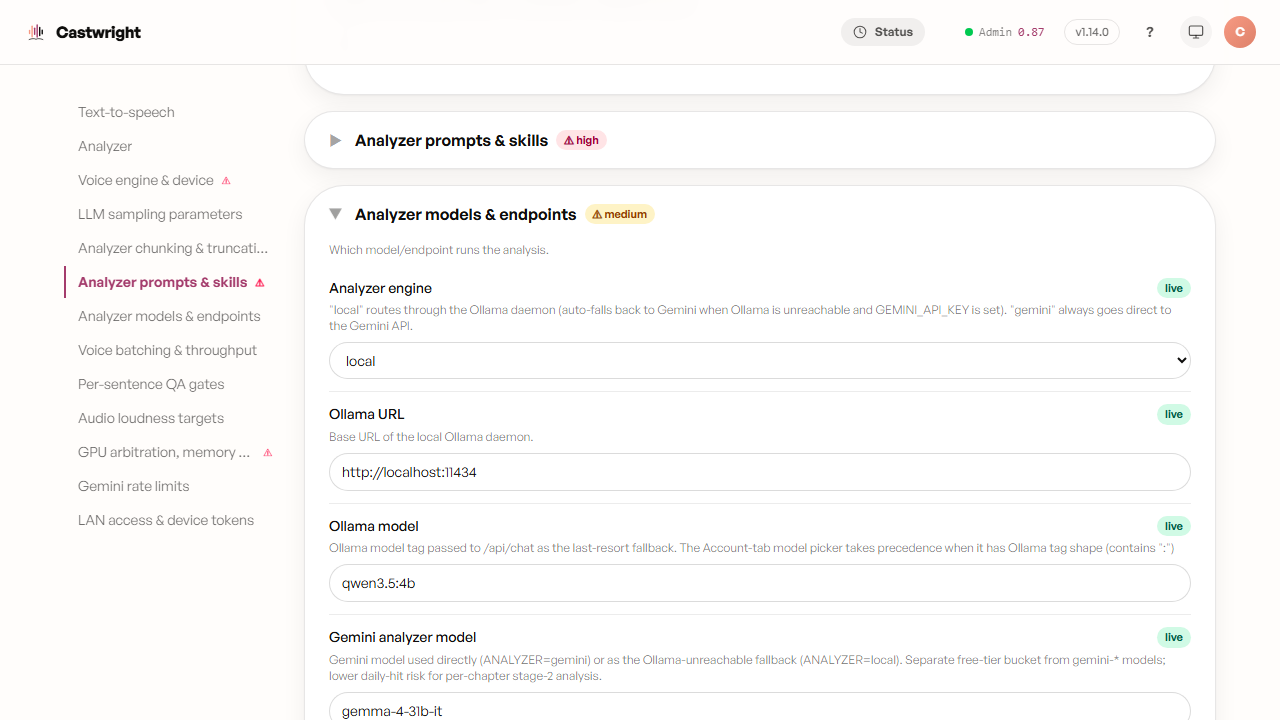
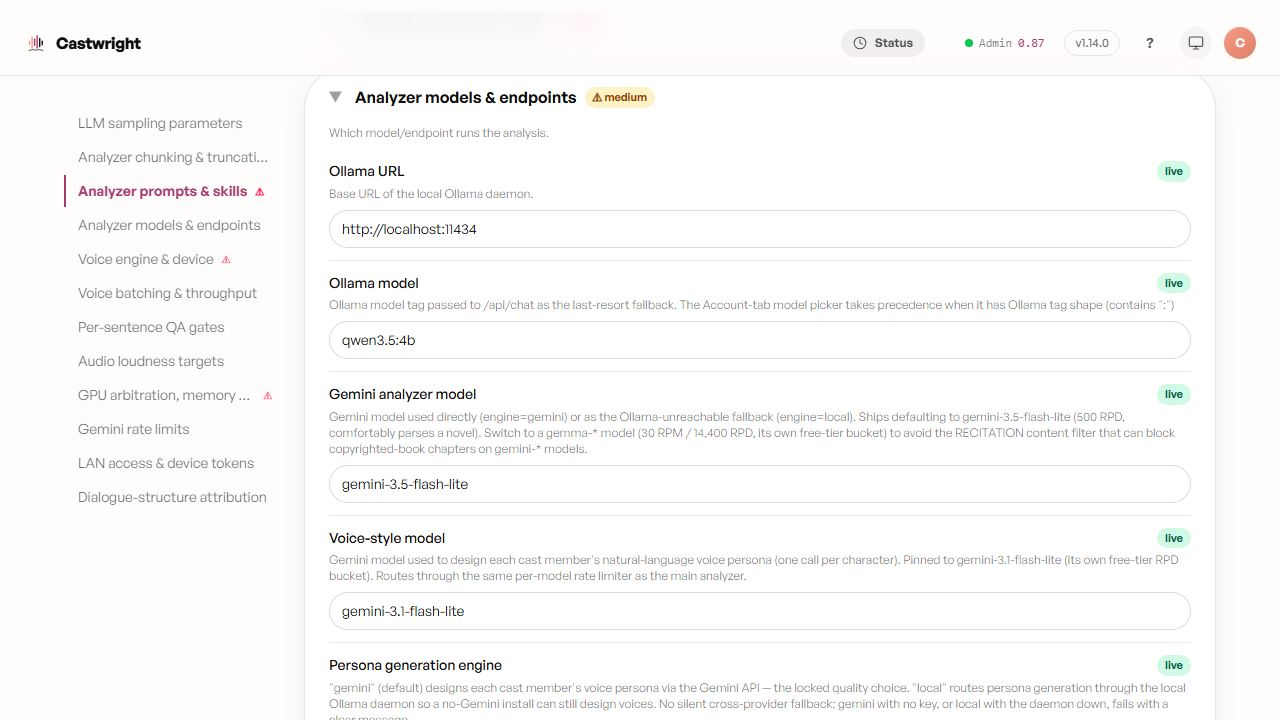
fix(server,frontend): stop pointing users at the retired ANALYZER setting
Review pass 1 on #3201 found live text that still named the removed
control or the ignored ANALYZER env var:

- Ollama unreachable / Gemini recitation messages and their failure
  remediations now point at Admin → Model Manager, with a test that no
  remediation mentions ANALYZER=.
- The voice-design help topic names its real control, Persona generation
  engine in Advanced settings (default Gemini), in-app and in the wiki.
- Model Manager, Advanced Settings, Troubleshooting and Installing wiki
  pages, INSTALL.md, plan 221 and the phase-model help text drop the
  ANALYZER wording; the Advanced Settings screenshots are recaptured.
- The Ollama device row waits for account settings to load, so a failed
  settings fetch no longer shows it to a Gemini user.
- config.test.ts's no-device-knob case uses a non-device knob, and the
  release notes date the env fallback's removal correctly.

Refs #3200

Claude-Session: https://claude.ai/code/session_013DFfsAoY1LtxjDgnGPSZkc

diff --git a/server/src/config/registry.ts b/server/src/config/registry.ts
@@ -1195,7 +1195,7 @@ export const KNOBS: ConfigKnob[] = [
     env: 'ANALYZER_PHASE0_MODEL',
     group: 'analyzer-models',
     label: 'Phase-0 model override',
-    help: 'When set, drives Phase 0 (cast detection) with this specific model while Phase 1 uses ANALYZER_PHASE1_MODEL. Leave empty to use the legacy single-model ANALYZER path for both phases. The two analyzers hit independent rate-limit buckets, so quota is effectively doubled.',
+    help: 'When set, drives Phase 0 (cast detection) with this specific model while Phase 1 uses ANALYZER_PHASE1_MODEL. Leave empty to use the selected analyzer engine (chosen in Admin → Model Manager) for both phases. The two analyzers hit independent rate-limit buckets, so quota is effectively doubled.',
     type: 'string',
     default: '', // ← ANALYZER_PHASE0_MODEL unset by default in server/.env.example (line 60)
     apply: 'live', risk: 'medium',
@@ -1205,7 +1205,7 @@ export const KNOBS: ConfigKnob[] = [
     env: 'ANALYZER_PHASE1_MODEL',
     group: 'analyzer-models',
     label: 'Phase-1 model override',
-    help: 'When set, drives Phase 1 (sentence attribution) with this specific model while Phase 0 uses ANALYZER_PHASE0_MODEL. Leave empty to use the legacy single-model ANALYZER path.',
+    help: 'When set, drives Phase 1 (sentence attribution) with this specific model while Phase 0 uses ANALYZER_PHASE0_MODEL. Leave empty to use the selected analyzer engine (chosen in Admin → Model Manager).',
     type: 'string',
     default: '', // ← ANALYZER_PHASE1_MODEL unset by default in server/.env.example (line 61)
     apply: 'live', risk: 'medium',

diff --git a/server/src/routes/failure-remediations.ts b/server/src/routes/failure-remediations.ts
@@ -70,8 +70,8 @@ export const FAILURE_REMEDIATIONS = {
       'The analyzer could not be reached or stopped responding — the local Ollama daemon is down, ' +
       'or the analyzer service returned a server error.',
     remediation:
-      'Check that Ollama is running (ollama serve), or switch the analyzer in server/.env ' +
-      '(ANALYZER=gemini with a GEMINI_API_KEY). Then retry the chapter or resume the run.',
+      'Check that Ollama is running (ollama serve), or switch the analyzer to Gemini in ' +
+      'Admin → Model Manager with a GEMINI_API_KEY. Then retry the chapter or resume the run.',
     helpDetail:
       'When GEMINI_API_KEY is set, an unreachable Ollama silently retries against Gemini, so this ' +
       'error usually means no fallback was configured — or both engines failed.',
@@ -83,8 +83,8 @@ export const FAILURE_REMEDIATIONS = {
       'the classic trigger.',
     remediation:
       'Switch the analyzer to a gemma-* model (set GEMINI_MODEL=gemma-4-31b-it in server/.env — the ' +
-      'gemma family is not subject to the recitation filter) or to the local Ollama analyzer ' +
-      '(ANALYZER=local). Restart, then click Retry.',
+      'gemma family is not subject to the recitation filter) or to Local Ollama in ' +
+      'Admin → Model Manager. Restart, then click Retry.',
     helpDetail:
       'The block is deterministic — retrying the same model on the same text fails identically, so ' +
       'it is not a transient error. gemma-* runs on a separate API bucket without recitation ' +

diff --git a/src/test/a11y.test.tsx b/src/test/a11y.test.tsx
@@ -22,7 +22,7 @@ import { ListenView } from '../views/listen';
 import { StatsView } from '../views/stats';
 import { AdvancedView } from '../views/advanced';
 
-import { accountSlice } from '../store/account-slice';
+import { accountSlice, fetchAccountSettings } from '../store/account-slice';
 import { librarySlice } from '../store/library-slice';
 import { tourSlice } from '../store/tour-slice';
 import { uiSlice } from '../store/ui-slice';
@@ -32,7 +32,7 @@ import { analysisSlice } from '../store/analysis-slice';
 import { chaptersSlice } from '../store/chapters-slice';
 import { configSlice } from '../store/config-slice';
 
-import type { Chapter, Character, Voice, LibraryAuthor } from '../lib/types';
+import type { Chapter, Character, Voice, LibraryAuthor, UserSettings } from '../lib/types';
 import type { EditableBookMeta } from '../store/book-meta-slice';
 import { api } from '../lib/api';
 
@@ -391,6 +391,15 @@ describe('a11y — advanced configuration view', () => {
     const store = configureStore({
       reducer: { config: configSlice.reducer, ui: uiSlice.reducer, account: accountSlice.reducer },
     });
+    // Hydrate account settings so the analyzer device block renders
+    const accountState = store.getState().account;
+    store.dispatch(
+      fetchAccountSettings.fulfilled(
+        { ...accountState, analysisEngine: 'local' } as UserSettings,
+        '',
+        undefined,
+      ),
+    );
     const { container } = render(
       <Provider store={store}>
         <AdvancedView />

diff --git a/src/data/help-topics.ts b/src/data/help-topics.ts
@@ -130,12 +130,11 @@ export const HELP_TOPICS: HelpTopic[] = [
     category: 'voices',
     title: 'Can I design voices without a Gemini API key?',
     body:
-      "Yes — voice design's description-writing step follows the same analyzer engine you've " +
-      'already chosen (Local or Gemini, in Advanced settings). Set the analyzer to Local and ' +
-      "Castwright drafts each character's voice from a model running entirely on your machine, so " +
-      'a fully offline setup, or one with no cloud key, can still design a full cast from scratch. ' +
-      'Gemini stays the default for the richest descriptions; Local is the road for a no-key or ' +
-      'offline setup.',
+      "Yes — voice design's description-writing step has its own engine, Persona generation engine " +
+      'in Advanced settings. Set it to Local and Castwright drafts each character\'s voice from a model ' +
+      'running entirely on your machine, so a fully offline setup, or one with no cloud key, can still ' +
+      'design a full cast from scratch. Gemini is its default for the richest descriptions; Local is ' +
+      'the road for a no-key or offline setup.',
   },
   {
     id: 'vocalizations',

diff --git a/src/views/advanced.test.tsx b/src/views/advanced.test.tsx
@@ -559,6 +559,24 @@ describe('AdvancedView — analyzer read-only row (Plan 2 §2.4, issue #1225)', 
     await screen.findAllByText('Text-to-speech');
     expect(screen.queryByText(/Analyzer \(Ollama\) device/i)).not.toBeInTheDocument();
   });
+
+  it('hides the row when account settings are not yet loaded', async () => {
+    mockGetConfig.mockResolvedValue(CONFIG_WITH_ANALYZER_MODELS_GROUP);
+    mockGetAnalyzerDevice.mockResolvedValue({ device: 'cuda' });
+
+    // Create store and render without dispatching fetchAccountSettings.fulfilled
+    // so account stays hydrated=false
+    const store = makeStore();
+    render(
+      <Provider store={store}>
+        <AdvancedView />
+      </Provider>,
+    );
+
+    // Even though the default engine is local, the row should be hidden until account hydrates
+    await screen.findAllByText('Text-to-speech');
+    expect(screen.queryByText(/Analyzer \(Ollama\) device/i)).not.toBeInTheDocument();
+  });
 });
 
 /* ── Analyzer GPU-split warning (#2367 Task 3) ───────────────────────────── */

diff --git a/server/src/analyzer/ollama.ts b/server/src/analyzer/ollama.ts
@@ -1036,7 +1036,7 @@ export function classifyConnectError(err: unknown, url: string): Error {
   const innerCode = e?.cause?.code ?? e?.code;
   if (innerCode && UNREACHABLE_CODES.has(innerCode)) {
     return new LocalUnreachableError(
-      `Ollama at ${url} is unreachable (${innerCode}). Start the daemon or set ANALYZER=gemini.`,
+      `Ollama at ${url} is unreachable (${innerCode}). Start the daemon or switch to Gemini in Admin → Model Manager.`,
       err,
     );
   }
@@ -1045,7 +1045,7 @@ export function classifyConnectError(err: unknown, url: string): Error {
      in some configs). Treat as unreachable. */
   if (e?.name === 'TypeError' && /fetch failed/i.test(e?.message ?? '')) {
     return new LocalUnreachableError(
-      `Ollama at ${url} is unreachable (fetch failed). Start the daemon or set ANALYZER=gemini.`,
+      `Ollama at ${url} is unreachable (fetch failed). Start the daemon or switch to Gemini in Admin → Model Manager.`,
       err,
     );
   }

diff --git a/server/src/routes/failure-remediations.test.ts b/server/src/routes/failure-remediations.test.ts
@@ -23,3 +23,18 @@ describe('FAILURE_REMEDIATIONS.cloned-voice-broken (#1979)', () => {
     expect(remediation).toMatch(/reassign the character/i);
   });
 });
+
+/* ANALYZER env var was retired as the engine selector on 2026-07-15; engine
+   selection moved to per-account settings in Model Manager. Remediation text
+   must not reference the dead ANALYZER= path. */
+describe('FAILURE_REMEDIATIONS — no ANALYZER= references', () => {
+  it('no remediation text contains ANALYZER= or set ANALYZER', () => {
+    for (const [key, remedy] of Object.entries(FAILURE_REMEDIATIONS)) {
+      const text = `${remedy.userMessage}\n${remedy.remediation}\n${
+        'helpDetail' in remedy && remedy.helpDetail ? remedy.helpDetail : ''
+      }`;
+      expect(text, `${key} remediation`).not.toMatch(/ANALYZER=/);
+      expect(text, `${key} remediation`).not.toMatch(/set ANALYZER/i);
+    }
+  });
+});

diff --git a/server/src/routes/script-review.ts b/server/src/routes/script-review.ts
@@ -953,10 +953,9 @@ async function runScriptReviewJob(
       );
       if (blockedErr) {
         /* Terminal, actionable error. The message already names the model +
-           reason + remediation ("switch GEMINI_MODEL to a gemma-* model or set
-           ANALYZER=local"); `model` drives the status pill, `remediation` the
-           panel copy. Renders generically in the frontend else-branch toast (no
-           Retry — retrying the same model is futile). */
+           reason + remediation (from FAILURE_REMEDIATIONS); `model` drives the
+           status pill, `remediation` the panel copy. Renders generically in the
+           frontend else-branch toast (no Retry — retrying the same model is futile). */
         send({
           kind: 'error',
           code: 'content_blocked',

diff --git a/server/src/analyzer/errors.ts b/server/src/analyzer/errors.ts
@@ -68,8 +68,8 @@ export class GeminiContentBlockedError extends Error {
     const hint =
       reason && reason !== 'FINISH_REASON_UNSPECIFIED'
         ? ' A content filter blocked the text — gemini-* models block copyrighted' +
-          ' source via RECITATION. Switch GEMINI_MODEL to a gemma-* model or set' +
-          ' ANALYZER=local (Ollama).'
+          ' source via RECITATION. Switch GEMINI_MODEL to a gemma-* model or switch' +
+          ' to Local Ollama in Admin → Model Manager.'
         : '';
     super(`Gemini ${model} returned an empty response${named}.${hint}`);
     this.name = 'GeminiContentBlockedError';

diff --git a/src/views/advanced.tsx b/src/views/advanced.tsx
@@ -552,7 +552,7 @@ export function AdvancedView() {
                       />
                     );
                   })}
-                  {group.id === 'analyzer-models' && analyzerEngine === 'local' && (
+                  {group.id === 'analyzer-models' && account.hydrated && analyzerEngine === 'local' && (
                     <div className="py-3 border-b border-ink/8">
                       <div className="flex items-center gap-2 mb-1">
                         <span className="text-sm font-medium text-ink flex-1">

diff --git a/server/src/routes/config.test.ts b/server/src/routes/config.test.ts
@@ -522,7 +522,7 @@ describe('PUT /api/config — device knob UUID translation (Plan 2 §2.1)', () =
   });
 
   it('does not fetch the sidecar device list when the patch has no device knob', async () => {
-    const res = await request(app).put('/api/config').send({ 'tts.coqui.device': 'cpu' });
+    const res = await request(app).put('/api/config').send({ 'analyzer.ollama.temperature': 0.3 });
     expect(res.status).toBe(200);
     expect(fetchMock).not.toHaveBeenCalled();
   });

diff --git a/RELEASE_NOTES.md b/RELEASE_NOTES.md
@@ -70,7 +70,7 @@
 - **The time estimate on a long analysis no longer claims to be measured when it's a guess.** While Castwright works through your book, it shows an estimate for the attribution stage — and it used to say that figure came from timing the earlier stage on your own machine. It never had: the number shown is a fixed guess calibrated on entirely different hardware, and it said so in a way that read like a measurement. Two separate runs of the same book would print the same estimate to the second, which no real measurement does. It now says plainly that it's a pre-flight guess, refined only afterward — not a claim of having already timed your machine.
 - **A Russian book no longer re-reads a whole chapter because of the word “as”.** Castwright double-checks that it hasn't missed anybody who speaks in your book, by looking for names sitting next to words like “said”. In Russian, the ordinary phrase “As the mage said…” puts the word *как* — “as” — in exactly that position, so Castwright decided *как* was a character it had somehow overlooked, and re-read the entire chapter from scratch to look for them. On a full-length novel that's a quarter of an hour of work for a word that means “as”. It now knows the difference.
 - **Castwright now spots when your analyzer's model is split across multiple GPUs, which slows things down.** When an Ollama analyzer model gets divided between more than one graphics card, performance drops sharply — but the split can be subtle, and nothing used to warn you it had happened. Castwright now detects the split and logs a warning, so you can track down the mismatch in your setup. The warning appears in the Advanced Configuration screen's “Analyzer models & endpoints” section alongside the “Expected analyzer GPU” knob, so you can declare which GPU you've pinned Ollama to and the warning can tell you exactly what got misplaced if the split contradicts your settings. This is informational only — Castwright never changes your Ollama placement on its own.
-- **Advanced Settings no longer shows an “Analyzer engine” control that did nothing.** That choice moved to the Model Manager in July and became a per-account setting, but the old control lingered on the Advanced Configuration screen, inert and unchanged by anything. It's gone now, and the analyzer device display correctly updates when you change your choice in Model Manager instead.
+- **Advanced Settings no longer shows an “Analyzer engine” control that did nothing.** That choice moved to the Model Manager and became a per-account setting; on 2026-07-15, the `ANALYZER` env-var fallback was removed. But the old control lingered on the Advanced Configuration screen, inert and unchanged by anything. It's gone now, and the analyzer device display correctly updates when you change your choice in Model Manager instead.
 - **Clone a voice you have permission to use — and cast it anywhere.** Record or upload a short sample, confirm it's yours (or a family member's, with their say-so), and Castwright builds a reusable voice you can hand to any character.
 - **Build your own stable of narrators in My voices.** Design a voice once — from a persona, with a live audition — and it's yours to cast in any book, not just the one you designed it for. Not happy with a take? Redesign it and compare old against new side by side before you commit. Fallen for a voice you built for one character? Save it to My voices and hand it to someone else next time, in a different book entirely.
 - **A cloned voice tells you clearly when it can't be used — instead of quietly rendering as someone else.** If Castwright can't rebuild a cloned voice as itself, it stops and says so, right down to the reason — a revoked voice, a missing sample, or a book set to the wrong engine — so you always know a chapter used the real voice or didn't run at all. That promise now holds on **both** of Castwright's speech engines, not just one: until now a cloned voice only worked reliably on one of them, and casting it on a book that used the other could either hit a wall or, worse, quietly get you a stand-in.
